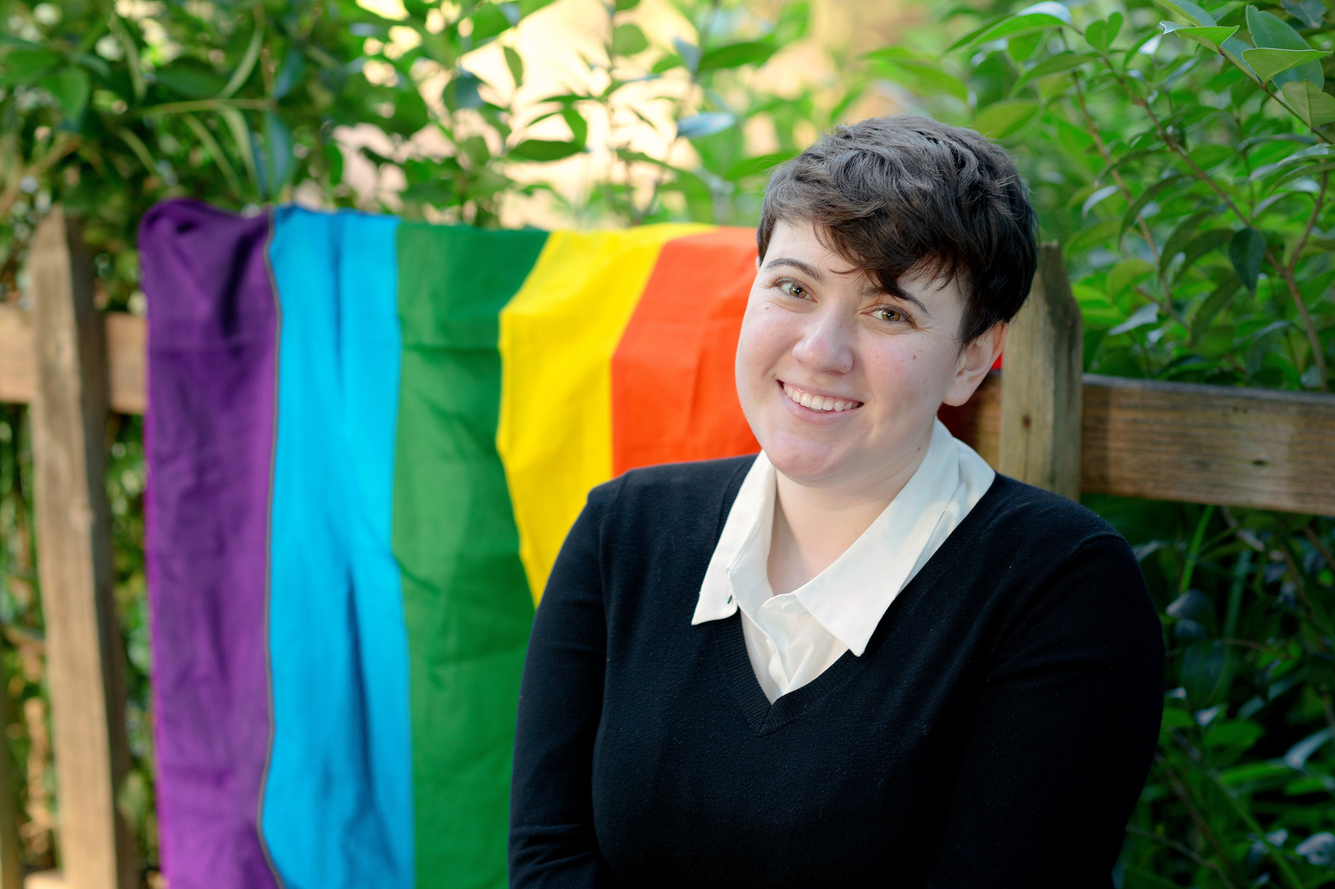
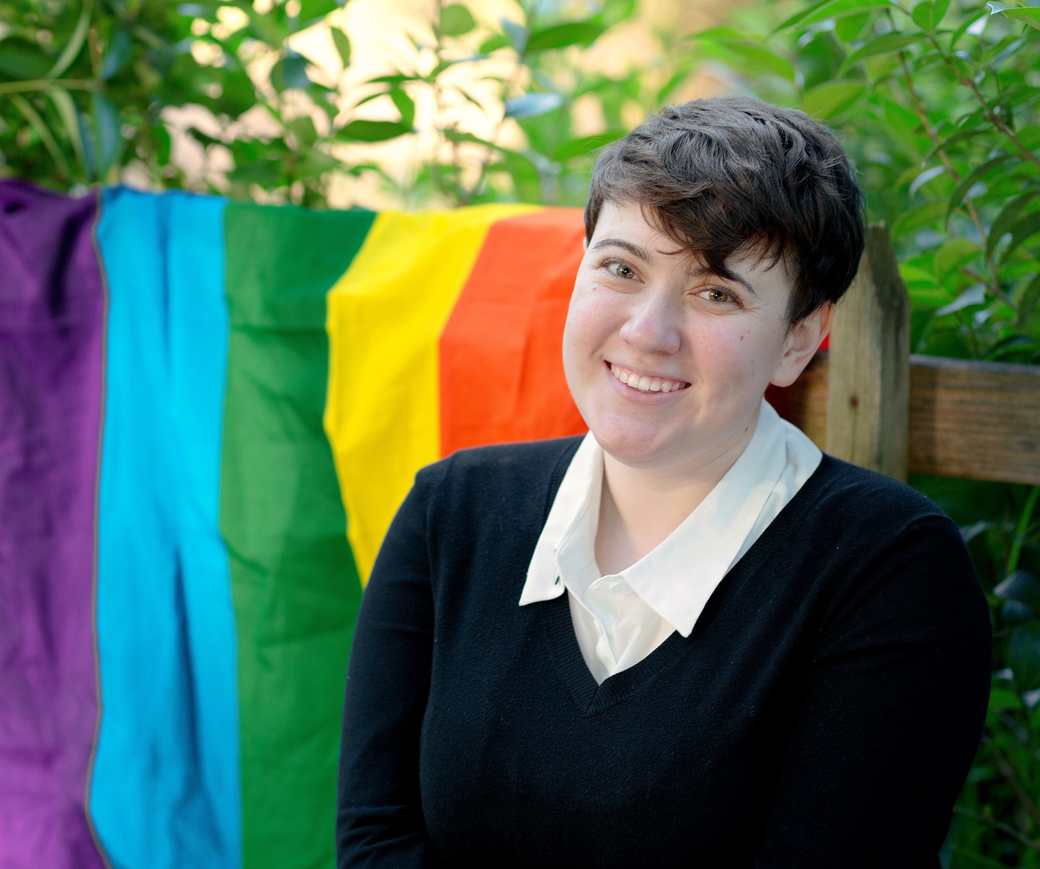
fix minigrid formatting, add padding and gutters, bg for debug, crop img

diff --git a/main.css b/main.css
@@ -4,42 +4,55 @@
 }
 
 /* Creates main grid to sections on */
-.card{
+.card {
   display: grid;
   grid: auto-flow / 1fr 1fr 1fr;
+  grid-gap: 10px;
+  padding: 2%;
+  /*max-width: 1500px; (at certain size, stop expanding card and just let background get bigger around it?)*/
 }
 
-.intro{
-  grid-column: 1/3;
+.intro {
+  grid-column: 1/span 3;
   grid-row-start: 1;
 }
+
  /* Creates minigrid to layout main title/intro card */
-.minigrid{
+.minigrid {
   display: grid;
-  grid: 1fr 2fr / 1fr 1fr 1fr 1fr;
+  grid: 1fr 2fr / 2fr 1fr 2fr 2fr;
+  grid-gap: 10px;
+  padding: 2%;
 }
 
-#portrait{
-  grid-row: 1/2;
+#portrait {
+  grid-row: 1 / 3;
   grid-column: 1/1;
+  align-self: center;
+}
+
+#portrait img {
   width: 100%;
+  height: auto;
+  max-width: 100%;
+  vertical-align: middle;
 }
 
-#title{
+#title {
   grid-row: 1/1;
-  grid-column: 2/3;
+  grid-column: 2/span 2;
 }
 
-#about{
+#about {
   grid-row: 2/2;
-  grid-column: 3/4;
-
+  grid-column: 3 / span 2;
+  text-align: justify;
 }
 
 /* End of minigrid styling */
 
-#breaktext{
-  grid-column: 2;
+#breaktext {
+  grid-column: 1/span 3;
   grid-row: 2;
   text-align: center;
 }
@@ -50,13 +63,42 @@
   grid-row: 3;
   text-align: center;
 }
-.des{
+.des {
   grid-column-start: 2;
   grid-row: 3;
   text-align: center;
 }
-.etc{
+.etc {
   grid-column-start: 3;
   grid-row: 3;
   text-align: center;
+}
+
+.debug .minigrid {
+  background-color: cyan;
+}
+.debug #portrait {
+  background-color: blue;
+  border: 2px solid red;
+}
+.debug #portrait img {
+  border: 5px solid lemonchiffon;
+}
+.debug #title {
+  background-color: green;
+}
+.debug #about {
+  background-color: yellow;
+}
+.debug #breaktext {
+  background-color: purple;
+}
+.debug .dev {
+  background-color: orange;
+}
+.debug .des {
+  background-color: magenta;
+}
+.debug .etc {
+  background-color: orange;
 }

diff --git a/main.html b/main.html
@@ -12,11 +12,13 @@
   <header>
 
   </header>
-  <main>
+  <main class="debug">
     <div class="card">
         <div class="intro">
           <div class="minigrid">
-            <img id="portrait" src="assets/portrait.jpg" alt="A smiling person with short brown hair in a black sweater and white dress shirt, in front of a pride flag and fence outside.">
+            <div id="portrait">
+              <img src="assets/portrait.jpg" alt="A smiling person with short brown hair in a black sweater and white dress shirt, in front of a pride flag and fence outside.">
+            </div>
             <h1 id="title">Hi, I'm Cyprin Mason!</h1>
             <p id="about">
               Lorem ipsum dolor sit amet, consectetur adipiscing elit. Vestibulum mollis vehicula erat, a ultricies nulla ullamcorper vel. Suspendisse potenti. Morbi egestas lacinia faucibus. Maecenas interdum risus vel eleifend malesuada. Vestibulum hendrerit ex ut lectus venenatis, vestibulum aliquam ipsum feugiat. Vivamus mattis, lorem sit amet mollis lacinia, risus nunc rutrum tellus, sit amet tempus nulla ligula at ipsum. Maecenas luctus nulla elit, non pretium velit rhoncus id. Curabitur vulputate suscipit lorem ac scelerisque. Nulla facilisi. Pellentesque at ultricies orci.
